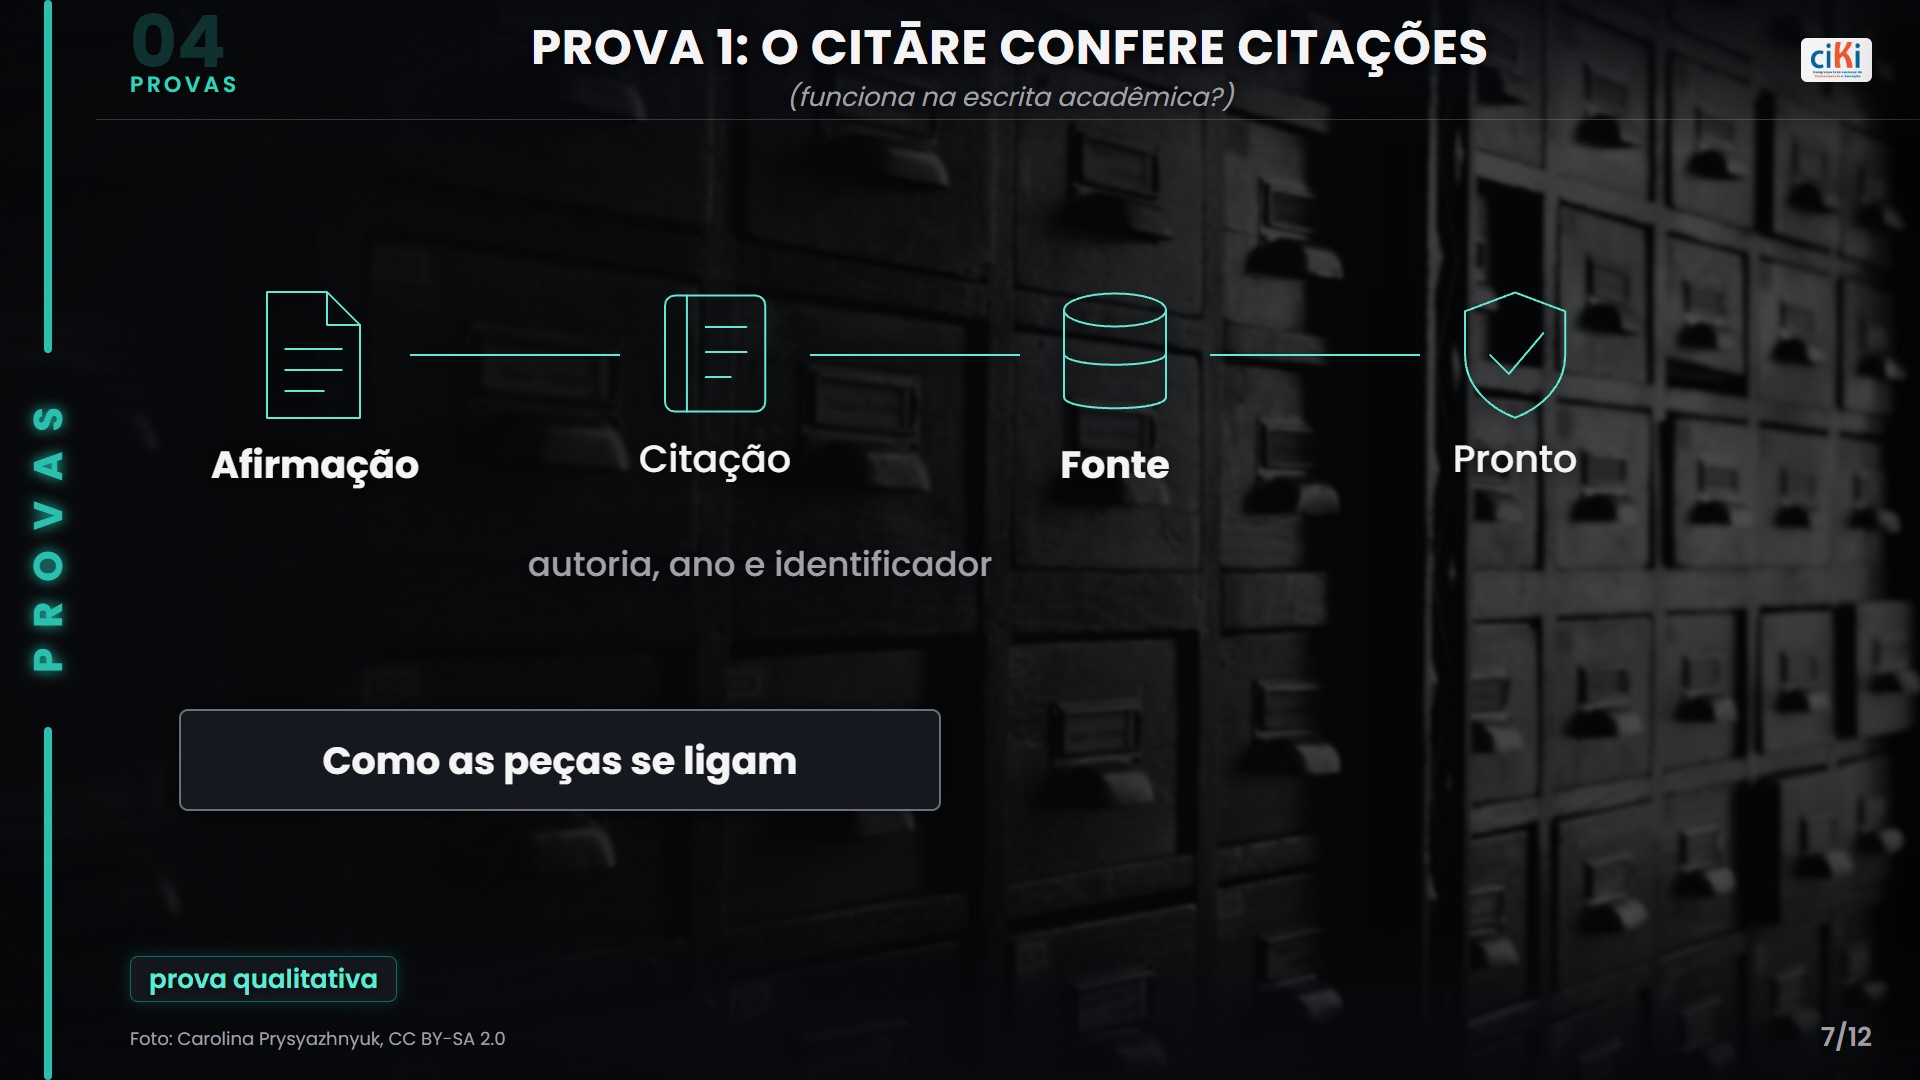
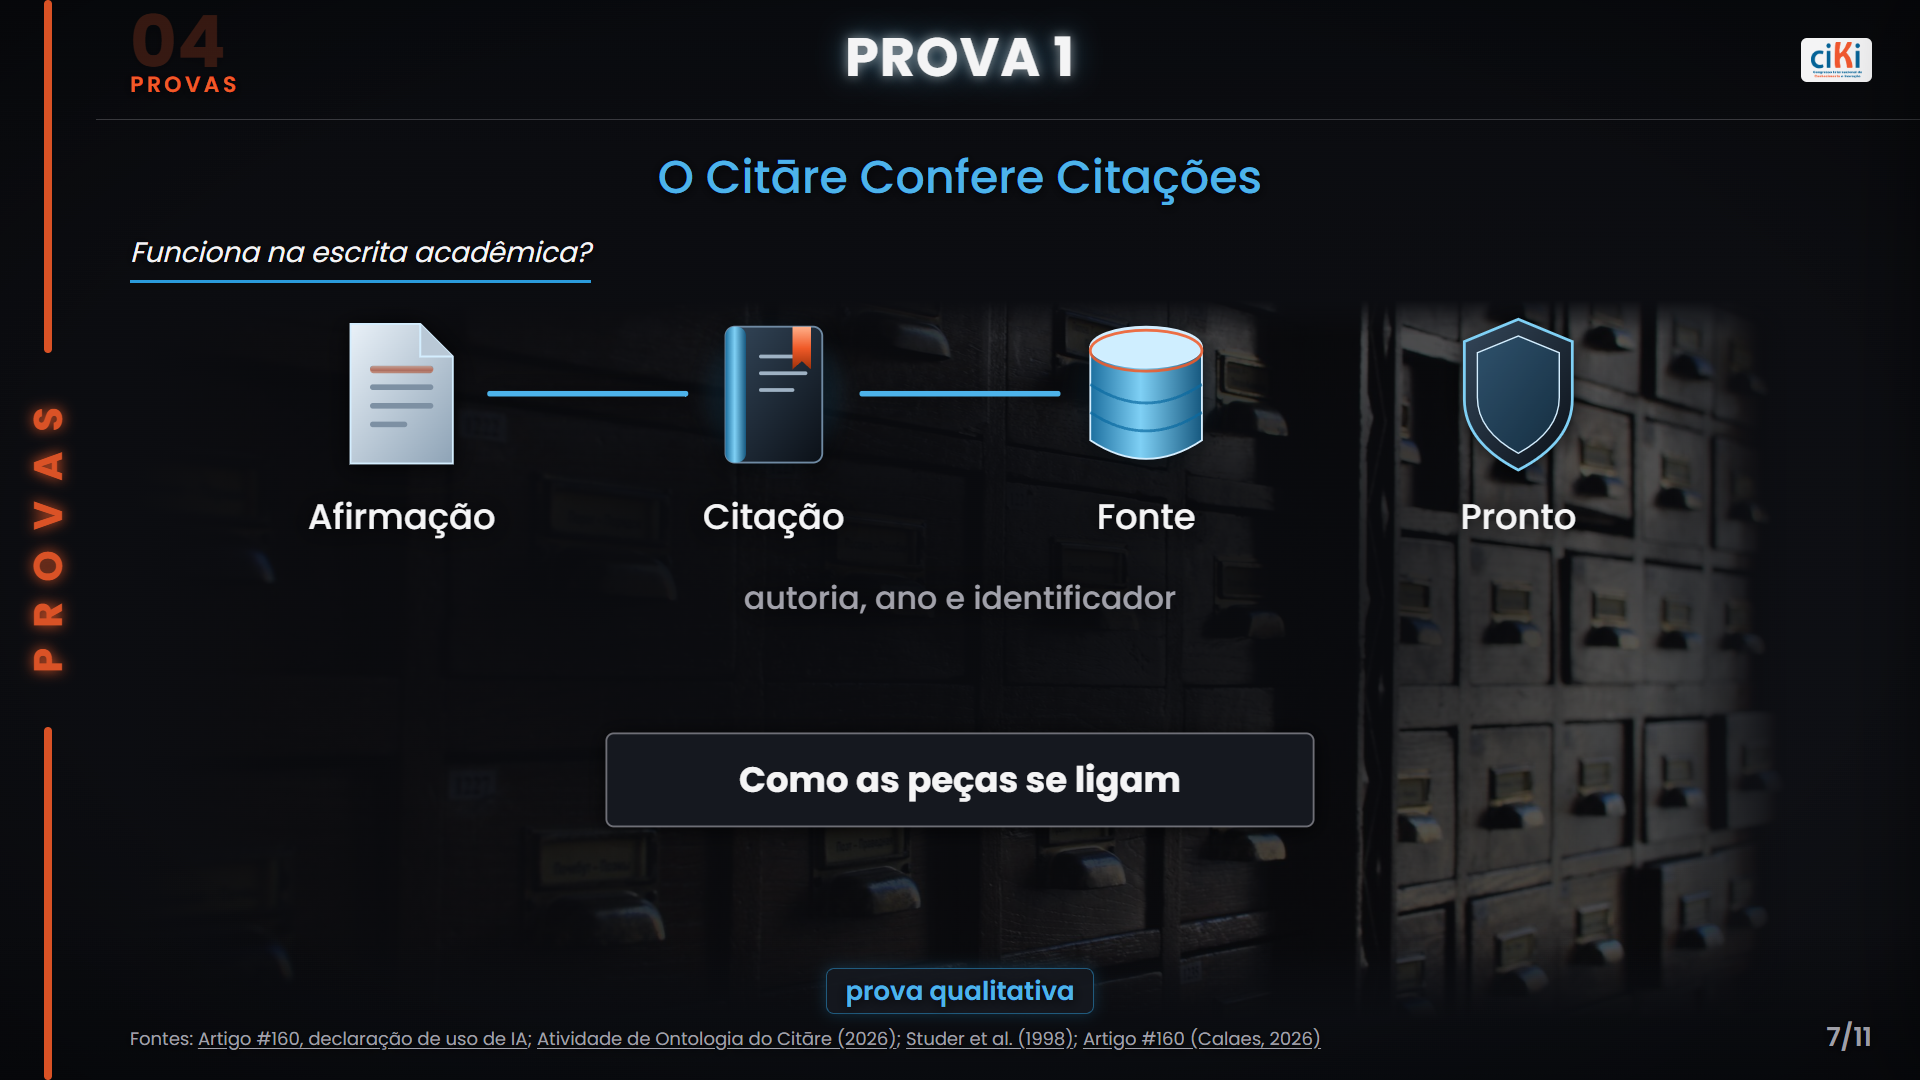
Slide 7: herói animado e realista (ciclo de 6 s) e imagem de fundo em moldura

diff --git a/web/deck.js b/web/deck.js
@@ -485,13 +485,41 @@ HEROES.s9 = K => {
 };
 
 HEROES.s6 = K => {
-  const x0 = [80, 480, 880, 1280];
-  const cadeia = OG('<g data-open="s6-ontologia" aria-label="Do trecho do artigo à fonte: ver a ontologia do Citāre">', HIT(0, 20, 1600, 320) +
-    PIC2('documento', { x: x0[0], y: 40, s: 150, t: 'Afirmação', size: 38, step: 1 }) + K.pic('registrar', { x: x0[1], y: 40, s: 150, t: 'Citação', size: 38, step: 3 }) +
-    PIC2('fonte', { x: x0[2], y: 40, s: 150, t: 'Fonte', size: 38, step: 5 }) + K.pic('verificar', { x: x0[3], y: 40, s: 150, t: 'Pronto', size: 38, step: 7, fill: true }) +
-    K.arrow({ pts: [[250, 115], [460, 115]], step: 2 }) + K.arrow({ pts: [[650, 115], [860, 115]], step: 4 }) + K.arrow({ pts: [[1050, 115], [1260, 115]], step: 6 }));
-  const chips = OG('<g data-open="s6-regras" aria-label="Regras de autoria, ano e identificador: ver o que o verificador exige">', HIT(380, 290, 440, 70) + K.text({ x: 600, y: 336, t: 'autoria, ano e identificador', size: 34, anchor: 'middle', tone: 'nevoa', step: 8 }));
-  const onto = OG('<g data-open="s6-triplas" aria-label="Como as peças se ligam: ver exemplos">', K.box({ x: 20, y: 470, w: 760, h: 100, t: 'Como as peças se ligam', size: 38, step: 9 }));
+  /* v1.19.0 (regras 10b): herói realista e animado, ciclo de 6 s: a afirmação vira citação, a citação acha a fonte, a fonte libera o selo "pronto" */
+  const D = 6, R = 'repeatCount="indefinite"', S = (n, i) => '<g class="k-el" data-step="' + n + '" style="--step:' + n + '">' + i + '</g>';
+  const an = (a, v, kt) => '<animate attributeName="' + a + '" values="' + v + '" keyTimes="' + kt + '" dur="' + D + 's" ' + R + '/>';
+  const halo = (r, t0) => '<circle r="' + r + '" fill="#2b9bdc" filter="url(#s6g)" opacity="0">' + an('opacity', '0;0;.75;0;0', '0;' + t0 + ';' + (t0 + .08) + ';' + (t0 + .3) + ';1') + '</circle>';
+  const defs = '<defs><linearGradient id="s6m" x1="0" y1="0" x2="1" y2="1"><stop offset="0" stop-color="#34475a"/><stop offset="1" stop-color="#0b1017"/></linearGradient>' +
+    '<linearGradient id="s6p" x1="0" y1="0" x2="1" y2="1"><stop offset="0" stop-color="#e9f1f8"/><stop offset="1" stop-color="#8ea3b6"/></linearGradient>' +
+    '<linearGradient id="s6c" x1="0" y1="0" x2="1" y2="0"><stop offset="0" stop-color="#1c6f9f"/><stop offset=".45" stop-color="#7fd0f5"/><stop offset="1" stop-color="#16587f"/></linearGradient>' +
+    '<linearGradient id="s6o" x1="0" y1="0" x2="0" y2="1"><stop offset="0" stop-color="#ffb08a"/><stop offset=".5" stop-color="#f05a28"/><stop offset="1" stop-color="#9c3009"/></linearGradient>' +
+    '<filter id="s6g" x="-60%" y="-60%" width="220%" height="220%"><feGaussianBlur stdDeviation="10"/></filter></defs>';
+  const draw = (d, t0, t1, w) => '<path d="' + d + '" pathLength="1" stroke-dasharray="1" fill="none" stroke="#4db3ea" stroke-width="' + w + '" stroke-linecap="round">' + an('stroke-dashoffset', '1;1;0;0;1', '0;' + t0 + ';' + t1 + ';.92;1') + '</path>';
+  /* 1 afirmação: folha com linhas; a linha da afirmação é destacada em laranja */
+  let lin = '';
+  [-30, -10, 10, 30].forEach((y, i) => { lin += '<rect x="-34" y="' + y + '" width="' + (i === 3 ? 40 : 68) + '" height="6" rx="3" fill="#7d90a3"/>'; });
+  const doc = '<g transform="translate(155 105)">' + halo(70, 0) + '<path d="M-55 -75H20L55 -40V75H-55Z" fill="url(#s6p)" stroke="#d4eeff" stroke-width="2"/><path d="M20 -75V-40H55" fill="#b9c8d6" stroke="#d4eeff" stroke-width="2"/>' + lin +
+    '<rect x="-34" y="-30" width="68" height="8" rx="4" fill="url(#s6o)">' + an('opacity', '.5;1;1;.5;.5', '0;.05;.3;.45;1') + '</rect></g>';
+  /* 2 citação: livro com lombada e marcador laranja */
+  const livro = '<g transform="translate(555 105)">' + halo(72, .24) + '<rect x="-52" y="-72" width="104" height="146" rx="10" fill="url(#s6m)" stroke="#6f8aa3" stroke-width="2"/><rect x="-52" y="-72" width="22" height="146" rx="10" fill="url(#s6c)"/>' +
+    '<g stroke="#9fb2c4" stroke-width="4" stroke-linecap="round"><path d="M-14 -40H34"/><path d="M-14 -22H34"/><path d="M-14 -4H20"/></g><path d="M20 -72V-26L30 -35L40 -26V-72Z" fill="url(#s6o)"/>' +
+    '<circle cx="8" cy="34" r="11" fill="none" stroke="#f05a28" stroke-width="3" opacity="0">' + an('r', '11;11;40;40', '0;.24;.45;1') + an('opacity', '0;.9;0;0', '0;.24;.45;1') + '</circle></g>';
+  /* 3 fonte: base de dados (cilindro) com varredura de leitura */
+  const fonte = '<g transform="translate(955 105)">' + halo(74, .5) + '<path d="M-60 -50V50Q0 90 60 50V-50Z" fill="url(#s6c)" stroke="#d4eeff" stroke-width="2"/>' +
+    '<ellipse cx="0" cy="-50" rx="60" ry="22" fill="#cfeeff" stroke="#d4eeff" stroke-width="2"/><path d="M-60 -10Q0 30 60 -10M-60 20Q0 60 60 20" fill="none" stroke="#0a6aa1" stroke-width="3" opacity=".7"/>' +
+    '<ellipse cx="0" cy="-50" rx="60" ry="22" fill="none" stroke="#f05a28" stroke-width="3" opacity="0">' + an('cy', '-50;-50;50;50', '0;.5;.68;1') + an('opacity', '0;.9;0;0', '0;.5;.68;1') + '</ellipse></g>';
+  /* 4 pronto: escudo metálico com visto que se desenha */
+  const escudo = '<g transform="translate(1355 105)">' + halo(78, .78) + '<path d="M0 -80L58 -56V6Q58 52 0 82Q-58 52 -58 6V-56Z" fill="url(#s6m)" stroke="#7fd0f5" stroke-width="3"/><path d="M0 -62L44 -44V4Q44 40 0 64Q-44 40 -44 4V-44Z" fill="rgba(43,155,220,.18)" stroke="#d4eeff" stroke-width="1.5"/>' +
+    '<path d="M-24 4L-6 24L28 -16" pathLength="1" stroke-dasharray="1" fill="none" stroke="#9bdcff" stroke-width="9" stroke-linecap="round" stroke-linejoin="round">' + an('stroke-dashoffset', '1;1;0;0;1', '0;.78;.9;.92;1') + '</path></g>';
+  const trilha = (d, n, t0) => '<circle class="prt" r="8" fill="#f05a28" opacity="0"><animateMotion dur="' + D + 's" ' + R + ' path="' + d + '" keyPoints="0;0;1;1" keyTimes="0;' + t0 + ';' + (t0 + .15) + ';1" calcMode="linear"/>' + an('opacity', '0;1;1;0;0', '0;' + t0 + ';' + (t0 + .14) + ';' + (t0 + .15) + ';1') + '</circle>';
+  const cadeia = OG('<g data-open="s6-ontologia" aria-label="Do trecho do artigo à fonte: ver a ontologia do Citāre">', HIT(0, 20, 1600, 320) + defs + '<g transform="translate(45 0)">' +
+    S(1, doc) + S(3, livro) + S(5, fonte) + S(7, escudo) +
+    S(2, draw('M250 105H460', .08, .22, 6)) + S(4, draw('M650 105H860', .36, .5, 6)) + S(6, draw('M1050 105H1260', .64, .78, 6)) +
+    trilha('M250 105H460', 1, .08) + trilha('M650 105H860', 1, .36) + trilha('M1050 105H1260', 1, .64) +
+    K.text({ x: 155, y: 250, t: 'Afirmação', size: 38, anchor: 'middle', step: 1 }) + K.text({ x: 555, y: 250, t: 'Citação', size: 38, anchor: 'middle', step: 3 }) +
+    K.text({ x: 955, y: 250, t: 'Fonte', size: 38, anchor: 'middle', step: 5 }) + K.text({ x: 1355, y: 250, t: 'Pronto', size: 38, anchor: 'middle', step: 7 }) + '</g>');
+  const chips = OG('<g data-open="s6-regras" aria-label="Regras de autoria, ano e identificador: ver o que o verificador exige">', HIT(580, 290, 440, 70) + K.text({ x: 800, y: 336, t: 'autoria, ano e identificador', size: 34, anchor: 'middle', tone: 'nevoa', step: 8 }));
+  const onto = OG('<g data-open="s6-triplas" aria-label="Como as peças se ligam: ver exemplos">', K.box({ x: 420, y: 470, w: 760, h: 100, t: 'Como as peças se ligam', size: 38, step: 9 }));
   return K.svg(1600, 720, cadeia + chips + onto, 'Afirmação, citação, fonte e estado pronto como evidência');
 };
 

diff --git a/web/index.html b/web/index.html
@@ -116,7 +116,7 @@
 
 <!-- 7 -->
 <section class="slide s6" data-title="Prova 1: o Citāre confere citações" data-t="45" data-block="PROVAS" data-fontes="art-citare,ont-citare,studer1998,art-escopo" aria-label="Citāre conferiu este artigo">
-<div class="bgimg" style="background-image:url(img/catalogo.jpg)"></div>
+<div class="bgimg frame" style="background-image:url(img/catalogo.jpg);background-size:cover;background-position:center;--fx:130px;--fw:1660px;--vx:50%;--vy:42%;--vrx:42%;--vry:40%"></div>
 <div class="veil"></div>
 <h1 class="ttl"><span class="w">PROVA 1</span></h1>
 <p class="sub">O Citāre Confere Citações</p>
@@ -335,6 +335,6 @@
 <script src="lib/three.min.js"></script>
 <script src="img/mundo.js"></script>
 <script src="matrix8.js"></script>
-<script src="deck.js?v=21"></script>
+<script src="deck.js?v=24"></script>
 </body>
 </html>

diff --git a/web/auditar_deck.py b/web/auditar_deck.py
@@ -278,6 +278,9 @@ for pid, conteudo in PAINEIS.items():
 # paleta da instituição (logo do CIKI, v1.4.0): azul #2b9bdc/#4db3ea/#0a6aa1 e laranja #f05a28; o verde-azulado antigo deixou de valer.
 PERMITIDAS = {"0b0c10", "14161c", "15181f", "f4f4f5", "a1a1aa", "71717a", "2b9bdc", "4db3ea", "0a6aa1", "38bdf8", "f87171", "f05a28",
               "000", "000000", "fff", "ffffff", "0a1b4a"}  # 0a1b4a: tint da camada da foto (mix-blend-mode), nunca fundo
+PERMITIDAS |= {"d4eeff", "9bdcff", "7fd0f5", "cfeeff", "ffb08a", "9c3009", "ffd7c2", "0a3a5a", "1b0f08", "1b232b", "05080c", "0b1017",
+               "34475a", "6f8aa3", "8fa3b5", "44566a", "56667a", "445261", "d3dee9", "e9f1f8", "8ea3b6", "b9c8d6", "9fb2c4", "7d90a3",
+               "1c6f9f", "16587f"}  # metálicos e brilhos das figuras realistas (regras 10b): tons de aço, azul e laranja da paleta
 VERDES = {"00ff41", "008f11"}
 RGBA_OK = {(255, 255, 255), (161, 161, 170), (113, 113, 122), (43, 155, 220), (77, 179, 234), (10, 106, 161), (56, 189, 248),
            (21, 24, 31), (11, 12, 16), (20, 22, 28), (8, 10, 14), (244, 244, 245), (248, 113, 113), (0, 0, 0), (10, 27, 74), (240, 90, 40)}
